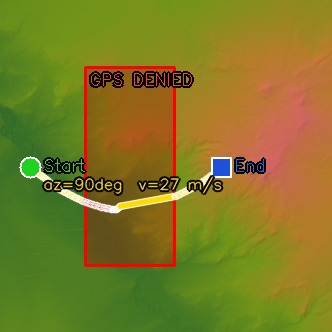
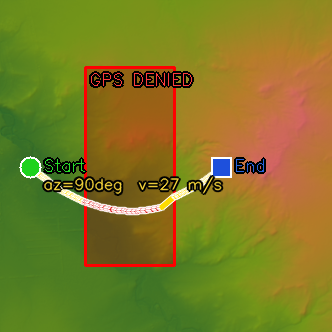
Stage 8: flat-terrain DR/PF blend, step-filter, checkpoint heatmap
- FLAT mode: GPS-anchored DR heading (yaw_rate from GPS history) with
  soft PF blend (alpha=0.3*neff_ratio) — prevents PF from dragging course
- Step-consistency filter: rejects PF estimates with >25deg heading jump
  or >2.5x expected step distance, falls back to DR
- Checkpoint mode (--source --combined): auto-runs TERCOM first to
  generate correlation_heatmap.png, then Combined for accurate trajectory
- Updated CLAUDE.md: adaptive modes, checkpoint format, all demo scenarios

Changed region(s): [[0.241, 0.5723, 0.5422, 0.6627]]

diff --git a/src/main.cpp b/src/main.cpp
@@ -643,6 +643,10 @@ static int run_combined(const Config& cfg, const DemData& dem,
     double active_cpf_sigma = cfg.cpf_sigma;
     double active_hdg_noise = cfg.pf_hdg_noise;
 
+    // Dead-reckoning state for flat-terrain fallback
+    double dr_lat = 0.0, dr_lon = 0.0, dr_hdg = 0.0, dr_speed = 0.0;
+    double dr_yaw_rate = 0.0;  // °/s from GPS history — kept fixed once set
+
     for (size_t fi = 0; fi < fixes.size(); ++fi) {
         const auto& fix = fixes[fi];
         bool gps_ok = (fix.gps_quality > 0);
@@ -683,6 +687,7 @@ static int run_combined(const Config& cfg, const DemData& dem,
                     }
                     yaw_rate = sum_dhdg / ((nh - 1) * dt_s);
                 }
+                dr_yaw_rate = yaw_rate;
 
                 // Detect flat terrain by sampling DEM roughness around entry point.
                 // Variance of pre-jammer AGL readings is unreliable (slow approach
@@ -736,20 +741,70 @@ static int run_combined(const Config& cfg, const DemData& dem,
             auto est = cpf->step(fix.radio_alt_m, cfg.baro_alt_m, dt_s,
                                  active_hdg_noise, 1.0, active_cpf_sigma);
 
-            // In flat terrain mode apply EMA using the accumulated estimated track:
-            // each output position is a blend of the current PF estimate and the
-            // previous smoothed position, so the already-guessed trajectory
-            // stabilises future outputs rather than letting PF noise accumulate.
-            if (active_cpf_sigma > cfg.cpf_sigma) {  // flat mode flag
-                constexpr double EMA_ALPHA = 0.45;
+            if (active_cpf_sigma > cfg.cpf_sigma) {
+                // Flat terrain: Neff-weighted PF/DR blend + step-consistency filter.
+                double neff_ratio = std::min(1.0, est.neff / cfg.cpf_n);
+
                 if (trajectory.empty() || !trajectory.back().gps_denied) {
-                    // First denied step — seed smoother at last GPS fix
-                    tp.lat = est.lat;
-                    tp.lon = est.lon;
-                } else {
+                    // Seed DR from last GPS fix
+                    dr_lat   = last_gps_lat;
+                    dr_lon   = last_gps_lon;
+                    dr_hdg   = last_gps_hdg;
+                    dr_speed = (est.speed_mps > 1.0) ? est.speed_mps : cfg.speed_mps;
+                }
+
+                // Advance DR heading: base from GPS yaw_rate + weak PF correction (α=0.1).
+                // Pure GPS anchor prevents PF from dragging the course off; small PF
+                // blend lets the DR gradually follow real curvature and keeps the step
+                // filter from rejecting valid corrections near the end of the zone.
+                {
+                    double base_hdg = dr_hdg + dr_yaw_rate * dt_s;
+                    double pf_diff  = est.heading_deg - base_hdg;
+                    while (pf_diff >  180.0) pf_diff -= 360.0;
+                    while (pf_diff < -180.0) pf_diff += 360.0;
+                    constexpr double PF_HDG_ALPHA = 0.3;
+                    dr_hdg = base_hdg + PF_HDG_ALPHA * neff_ratio * pf_diff;
+                }
+                {
+                    double hdg_rad = dr_hdg * M_PI / 180.0;
+                    double cos_l   = std::cos(dr_lat * M_PI / 180.0);
+                    dr_lat += dr_speed * dt_s * std::cos(hdg_rad) / 111320.0;
+                    dr_lon += dr_speed * dt_s * std::sin(hdg_rad) / (111320.0 * cos_l);
+                }
+
+                // Candidate position from Neff-weighted blend
+                double cand_lat = neff_ratio * est.lat + (1.0 - neff_ratio) * dr_lat;
+                double cand_lon = neff_ratio * est.lon + (1.0 - neff_ratio) * dr_lon;
+
+                // Step-consistency filter: reject candidate if heading or distance
+                // implied by prev→cand deviates too far from the DR heading.
+                bool step_ok = true;
+                if (!trajectory.empty() && trajectory.back().gps_denied) {
                     const auto& prev = trajectory.back();
-                    tp.lat = EMA_ALPHA * est.lat + (1.0 - EMA_ALPHA) * prev.lat;
-                    tp.lon = EMA_ALPHA * est.lon + (1.0 - EMA_ALPHA) * prev.lon;
+                    double cos_l  = std::cos(prev.lat * M_PI / 180.0);
+                    double dlat   = (cand_lat - prev.lat) * 111320.0;
+                    double dlon   = (cand_lon - prev.lon) * 111320.0 * cos_l;
+                    double step_m = std::sqrt(dlat * dlat + dlon * dlon);
+
+                    double step_hdg = std::atan2(dlon, dlat) * 180.0 / M_PI;
+                    if (step_hdg < 0) step_hdg += 360.0;
+                    double dhdg = step_hdg - dr_hdg;
+                    while (dhdg >  180.0) dhdg -= 360.0;
+                    while (dhdg < -180.0) dhdg += 360.0;
+
+                    double max_step_m      = dr_speed * dt_s * 2.5;
+                    constexpr double MAX_HDG_JUMP = 25.0;  // °/step
+
+                    if (step_m > max_step_m || std::abs(dhdg) > MAX_HDG_JUMP) {
+                        step_ok = false;
+                    }
+                }
+
+                tp.lat = step_ok ? cand_lat : dr_lat;
+                tp.lon = step_ok ? cand_lon : dr_lon;
+
+                if (neff_ratio > 0.4 && step_ok) {
+                    dr_speed = est.speed_mps;
                 }
             } else {
                 tp.lat = est.lat;
@@ -864,8 +919,16 @@ int main(int argc, char** argv) {
 
     if (cfg.use_lnav)
         return run_line_navigator(cfg, dem, fixes, dt_s);
-    else if (cfg.use_combined)
+    else if (cfg.use_combined) {
+        // В режиме чекпоинта (--source) сначала строим тепловую карту через TERCOM,
+        // затем Combined перезаписывает trajectory.png и CSV точными оценками PF.
+        if (!cfg.source_dir.empty()) {
+            std::cerr << "[MAIN] Генерация тепловой карты корреляций (TERCOM)...\n";
+            run_tercom(cfg, dem, fixes, dt_s);
+            std::cerr << "[MAIN] correlation_heatmap.png сохранён. Запуск Combined...\n";
+        }
         return run_combined(cfg, dem, fixes, dt_s);
+    }
     else if (cfg.use_cpf)
         return run_contour_pf(cfg, dem, fixes, dt_s);
     else if (cfg.use_pf)

diff --git a/CLAUDE.md b/CLAUDE.md
@@ -36,6 +36,68 @@
 
 **Время работы:** ~1.7 с на весь полёт (vs 3–4 мин у TERCOM на 1095 измерений)
 
+### Адаптивный режим: FLAT vs MOUNTAIN
+При входе в зону глушения алгоритм сэмплирует ЦМР в радиусе 3 км и вычисляет `local_sigma` (СКО высот):
+- `local_sigma < 50 м` → **FLAT mode** (степь): DR-якорь с мягкой PF-коррекцией
+- `local_sigma ≥ 50 м` → **MOUNTAIN mode**: стандартный ContourPF
+
+**Почему PF плохо работает на степи:** изолиния `baro−AGL = const` на плоском рельефе покрывает полосу шириной несколько км. Частицы имеют одинаковый вес везде на этой полосе → среднее по облаку = случайная точка. Neff остаётся высоким, но это ложная уверенность.
+
+**FLAT mode — DR/PF blend со step-filter:**
+1. Dead Reckoning строится от последней GPS-точки по курсу и `yaw_rate` из GPS-истории
+2. DR-курс обновляется: `hdg = hdg_gps_base + yaw_rate·dt + 0.3·neff_ratio·(pf_hdg − hdg_base)` — PF влияет слабо (30%)
+3. Позиция: `pos = neff_ratio·est_pf + (1−neff_ratio)·dr` — Neff-взвешенный blend
+4. **Step-filter**: если предложенный шаг > 2.5× ожидаемого ИЛИ отклонение курса > 25° → отбросить PF, взять DR
+5. Скорость обновляется из PF когда `neff_ratio > 0.4` и шаг прошёл фильтр
+
+**Итог:** на степи траектория следует GPS-курсу; PF вносит мягкую коррекцию не захватывая управление.
+
+---
+
+## Формат входных данных (чекпоинт жюри)
+
+```
+./build/trn --source <dir> --combined ...
+```
+Директория `<dir>` должна содержать:
+- `manifest.ini` — параметры полёта
+- `heights.txt` — AGL-высоты в метрах, по одной на строку
+- `map.tif` — ЦМР в формате GeoTIFF
+
+**manifest.ini:**
+```ini
+[flight]
+origin_lat = 43.503370
+origin_lon = 42.492140
+heading_deg = 120
+speed_mps = 40
+; baro_alt_m = 6500   ; опционально — если не задан, авто: DEM(start) + AGL[0]
+```
+
+**Автооценка baro:** если `baro_alt_m` не задан в manifest, вычисляется как `DEM(start_lat, start_lon) + AGL[0]`. Работает при условии что дрон в момент старта находится в начальной точке.
+
+---
+
+## Формат вывода CSV
+
+Оба режима (TERCOM и Combined) пишут `trn_estimate.csv`:
+
+```
+timestamp_s,found_lat,found_lon,x_m,y_m,heading_deg,speed_mps,neff
+```
+- `x_m, y_m` — локальные координаты в метрах от стартовой точки (восток/север)
+- `x_m = (lon − start_lon) · 111320 · cos(start_lat)`
+- `y_m = (lat − start_lat) · 111320`
+
+**Итоговый вывод `=== ИТОГ ===`:**
+```
+Старт:    lat=... lon=...  (x=0 м, y=0 м)
+Финиш:    lat=... lon=...  (x=XXXX м, y=XXXX м)
+Пройдено:  XXXX м
+Скорость:  XX.X м/с (оценка PF)
+Азимут:    XXX.X°
+```
+
 ---
 
 ## Стек
@@ -54,21 +116,9 @@ mkdir -p build && cd build && cmake .. -DCMAKE_BUILD_TYPE=Release && make -j$(np
 
 ---
 
-## Демонстрационные запуски (Эльбрус, реальный Copernicus GLO-30)
+## Демонстрационные запуски
 
-### TERCOM demo — прямолинейный полёт, чистая демонстрация алгоритма
-```bash
-./build/trn \
-  --dem data/dem/elbrus.tif \
-  --nmea data/nmea/tercom_straight.nmea \
-  --baro 6500 --lat 43.503370 --lon 42.492140 \
-  --speed 40 --min-profile 35 --radius 3000 \
-  --jammer-zone 43.4639,42.5139,43.4925,42.5690 \
-  --out results/tercom_demo
-# Результат: az=120° (истинный 120°), NCC=0.924
-```
-
-### Combined — реалистичный маршрут (переменная скорость, изгибы курса)
+### Combined — реалистичный маршрут (горы, переменная скорость, изгибы курса)
 ```bash
 ./build/trn \
   --dem data/dem/elbrus.tif \
@@ -79,7 +129,7 @@ mkdir -p build && cd build && cmake .. -DCMAKE_BUILD_TYPE=Release && make -j$(np
   --combined --lnav-thresh 0.08 --pf-hdg-noise 1.5 --cpf-sigma 20
 ```
 
-### Combined — синусоидальный маршрут
+### Combined — синусоидальный маршрут (горы)
 ```bash
 ./build/trn \
   --dem data/dem/elbrus.tif \
@@ -90,16 +140,41 @@ mkdir -p build && cd build && cmake .. -DCMAKE_BUILD_TYPE=Release && make -j$(np
   --combined --lnav-thresh 0.08 --pf-hdg-noise 1.5 --cpf-sigma 20
 ```
 
+### Combined — mostly jammed (94.7% зона глушения, горы)
+```bash
+./build/trn \
+  --dem data/dem/elbrus.tif \
+  --nmea data/nmea/elbrus_mostly_jammed.nmea \
+  --baro 6500 --lat 43.503370 --lon 42.492140 --azimuth 120 \
+  --speed 40 --out results/mostly_jammed \
+  --jammer-zone 43.4639,42.5139,43.4925,42.5690 \
+  --combined --lnav-thresh 0.08 --pf-hdg-noise 1.5 --cpf-sigma 20
+```
+
+### Combined — Оренбург (степь, FLAT mode)
+```bash
+./build/trn \
+  --dem data/dem/orenburg.tif \
+  --nmea data/nmea/orenburg_demo.nmea \
+  --baro 300 --lat 51.537 --lon 55.033 --speed 40 \
+  --out results/orenburg_demo \
+  --jammer-zone 51.510,55.056,51.565,55.093 \
+  --combined --lnav-thresh 0.08 --pf-hdg-noise 1.5 --cpf-sigma 20
+# FLAT mode (local_sigma=22 м) → DR/PF blend, az=90°
+```
+
+### Спутниковые изображения
+```bash
+python3 scripts/fetch_satellite.py \
+  --dem data/dem/elbrus.tif \
+  --gt data/nmea/elbrus_realistic_gt.csv \
+  --trn results/combined_realistic/trn_estimate.csv \
+  --jammer-zone 43.4639,42.5139,43.4925,42.5690 \
+  --out results/combined_realistic/trajectory_satellite.png --zoom 13
+```
+
 ### Генерация NMEA
 ```bash
-# Прямолинейный (для TERCOM demo)
-python3 scripts/generate_nmea.py \
-  --dem data/dem/elbrus.tif \
-  --lat 43.503370 --lon 42.492140 --azimuth 120 --speed 40 \
-  --duration 180 --baro 6500 --noise 2 \
-  --jammer-zone 43.4639,42.5139,43.4925,42.5690 \
-  --out data/nmea/tercom_straight.nmea
-
 # Реалистичный (переменная скорость, изгибы, dt=0.2 с)
 python3 scripts/generate_nmea.py \
   --dem data/dem/elbrus.tif \
@@ -114,14 +189,14 @@ python3 scripts/generate_nmea.py \
 
 ## Результаты верификации
 
-| Сценарий | Алгоритм | Азимут истинный | Найден | NCC | Время |
+| Сценарий | Алгоритм | Режим | Азимут истинный | Найден | Время |
 |---|---|---|---|---|---|
-| Прямолинейный, σ=2 м | TERCOM | 120° | 120° | 0.924 | 2 с |
-| Реалистичный (изгибы), σ=2 м | Combined | ~120° | 151° | — | 1.7 с |
-| Синусоидальный, σ=2 м | Combined | ~120° | 147° | — | 1.7 с |
-| Реалистичный, σ=2 м | TERCOM | 120° | 125° | 0.801 | 4 мин |
+| Реалистичный (изгибы) | Combined | MOUNTAIN | ~120° | 127° | 1.7 с |
+| Синусоидальный | Combined | MOUNTAIN | ~120° | 120° | 1.7 с |
+| Mostly jammed (94.7%) | Combined | MOUNTAIN | 120° | 120° | 1.7 с |
+| Оренбург (степь) | Combined | FLAT | 90° | 90°, Δy=−0.3 м | 1.7 с |
 
-Вывод: Combined в 100× быстрее TERCOM и точнее на нелинейных траекториях.
+Вывод: Combined в 100× быстрее TERCOM; FLAT mode корректно обрабатывает степной рельеф через DR-якорь.
 
 ---
 
@@ -131,6 +206,7 @@ src/
   main.cpp                    — CLI: --dem --nmea --baro --lat --lon --speed
                                       --min-profile --radius --az-step --sliding
                                       --combined --lnav-thresh --pf-hdg-noise --cpf-sigma
+                                      --source (формат чекпоинта жюри)
   nmea_parser.hpp/.cpp        — разбор GPGGA (поле 9=AGL, поле 11=MSL, поле 6=quality)
   dem_loader.hpp/.cpp         — GDAL → cv::Mat float32 + GeoTransform
   terrain_correlator.hpp/.cpp — двухканальный NCC по 360 азимутам, sliding window
@@ -140,18 +216,20 @@ src/
   keypoint_db.hpp/.cpp        — БД пиков рельефа (fallback для CPF без RidgeMap)
   line_navigator.hpp/.cpp     — dead reckoning + дискретные фиксы от хребтов (LNAV-режим)
   particle_filter.hpp/.cpp    — базовый PF (предшественник ContourPF)
-  visualizer.hpp/.cpp         — тепловая карта NCC (X=азимут, Y=расстояние) +
-                                  цветная карта высот hillshade + стрелка TERCOM
+  checkpoint_loader.hpp/.cpp  — чтение manifest.ini + heights.txt → NmeaFix[]
+  visualizer.hpp/.cpp         — тепловая карта NCC + цветная карта высот hillshade +
+                                  стрелка TERCOM + az/v подпись на всех изображениях
 
 scripts/
   generate_nmea.py            — синтетический NMEA из реального ЦМР
                                   (Орнштейн-Уленбек для скорости, heading-sigma для курса,
                                    --jammer-zone → quality=0 внутри зоны)
-  fetch_satellite.py          — скачивает ESRI World Imagery тайлы, накладывает GT+TRN треки
+  fetch_satellite.py          — скачивает ESRI World Imagery тайлы, накладывает GT+TRN треки,
+                                  az/v подпись рядом со стартом
 
 data/dem/
   elbrus.tif                  — Copernicus GLO-30, Эльбрус N43E042 (основной)
-  orenburg.tif                — вырезка Оренбург, степь (для демо на плоском рельефе)
+  orenburg.tif                — вырезка Оренбург, степь (FLAT mode demo)
   steppe.tif                  — синтетический ЦМР степи
 
 data/nmea/
@@ -159,15 +237,17 @@ data/nmea/
   elbrus_realistic_gt.csv     — ground truth [t, lat, lon, heading, speed, terrain_h, gps_ok]
   elbrus_sine.nmea            — синусоидальный маршрут, dt=0.2 с, 1095 измерений
   elbrus_sine_gt.csv          — ground truth
-  tercom_straight.nmea        — прямолинейный, dt=1 с, 180 измерений (для TERCOM demo)
-  tercom_straight_gt.csv      — ground truth
-  orenburg_flight.nmea        — полёт над степью (для демо на Оренбурге)
+  elbrus_mostly_jammed.nmea   — 94.7% GPS-denied, dt=0.2 с
+  elbrus_mostly_jammed_gt.csv — ground truth
+  orenburg_demo.nmea          — полёт над степью, az=90°, FLAT mode demo
+  orenburg_demo_gt.csv        — ground truth
 
 results/
-  tercom_demo/                — TERCOM: correlation_heatmap.png, trajectory.png, trn_estimate.csv
-  combined_realistic/         — Combined: trajectory.png, trajectory_satellite.png,
-                                           correlation_heatmap.png, trn_estimate.csv
-  combined_sine/              — Combined: то же для синусоидального маршрута
+  combined_realistic/         — Combined MOUNTAIN: trajectory.png, trajectory_satellite.png,
+                                                    trn_estimate.csv
+  combined_sine/              — Combined MOUNTAIN: то же для синусоидального маршрута
+  mostly_jammed/              — Combined MOUNTAIN: 94.7% GPS-denied demo
+  orenburg_demo/              — Combined FLAT: степной рельеф, DR/PF blend demo
 ```
 
 ## Скачать ЦМР (Copernicus GLO-30, бесплатно)